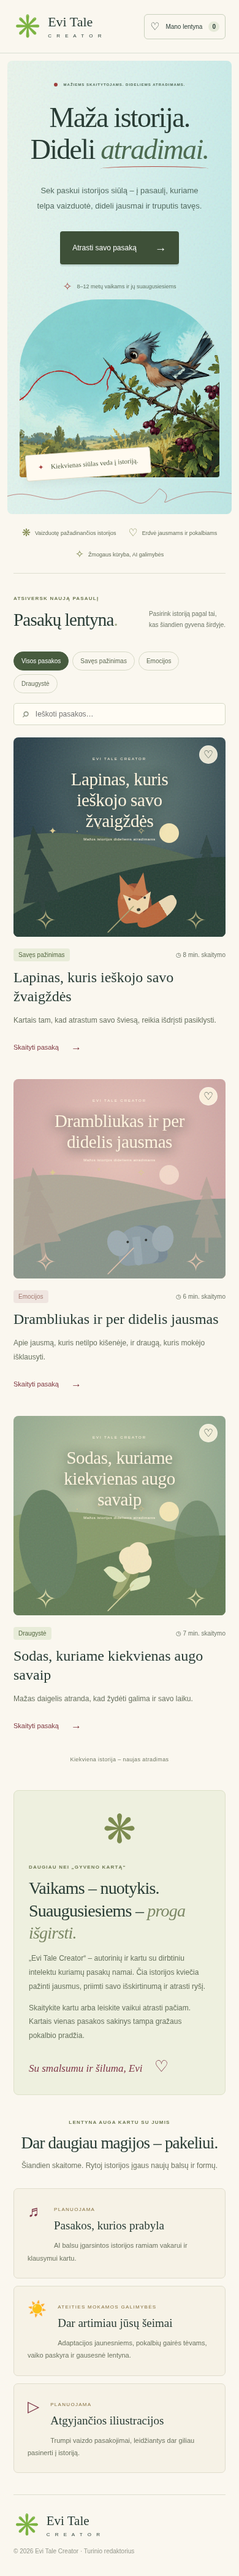
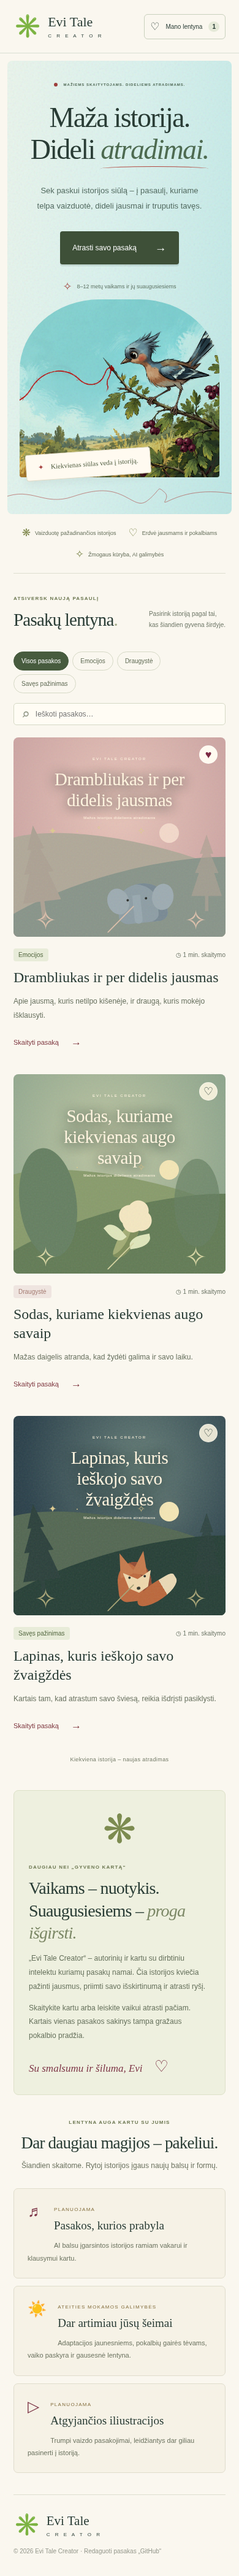
Publish static story library through GitHub Pages

Changed region(s): [[0.0308, 0.2808, 0.9538, 0.6552]]

diff --git a/src.js b/src.js
@@ -1,8 +1,10 @@
 import './style.css';
 
 import { escapeHtml as esc } from './shared.js';
+const editorMode=import.meta.env.MODE==='editor';
+const asset=path=>import.meta.env.BASE_URL+path.replace(/^\//,'');
 let stories = [];
-function cover(s) { return s.image ? `<img class="story-cover" src="${esc(s.image)}" alt="${esc(s.imageAlt || s.title)}" loading="lazy">` : art(s.color); }
+function cover(s) { return s.image ? `<img class="story-cover" src="${esc(editorMode?s.image:asset(s.image))}" alt="${esc(s.imageAlt || s.title)}" loading="lazy">` : art(s.color); }
 
 let remembered=[];
 try{const value=JSON.parse(localStorage.getItem('evi-saved')||'[]');if(Array.isArray(value))remembered=value.filter(v=>typeof v==='string');}catch{}
@@ -12,12 +14,12 @@ let filter='Visos pasakos',query='',favorites=false;
 function art(type, cls='') {return `<div class="art ${type} ${cls}" aria-hidden="true"><div class="moon"></div><div class="stars">✦ · ˚　 ✧<br>　 ·　 ✦　 ·</div><div class="hill back"></div><div class="hill front"></div><div class="tree t1"></div><div class="tree t2"></div><div class="animal"><i class="ear e1"></i><i class="ear e2"></i><i class="face"></i><i class="eye"></i><i class="nose"></i><i class="tail"></i></div><div class="sprigs">✧　╱　✧</div></div>`}
 document.querySelector('#app').innerHTML=`
 <header><a href="#" class="brand" aria-label="Evi Tale Creator pradžia"><span class="brand-icon">✳</span><span>Evi Tale<span class="brand-small">C R E A T O R</span></span></a><nav aria-label="Pagrindinis meniu"><a href="#lentyna" class="active">Pasakų lentyna</a><a href="#apie">Apie projektą</a><a href="#ateitis">Kas laukia toliau <span class="tiny-dot"></span></a></nav><button class="saved-nav" id="saved-nav">♡ <span>Mano lentyna</span><b id="saved-count">0</b></button></header>
-<main><section class="hero"><svg class="story-thread" viewBox="0 0 1200 120" fill="none" aria-hidden="true"><path d="M-20 70C130 10 195 118 350 65S575 35 640 70 720 116 770 69 803 10 840 41 812 111 860 89 1020 15 1220 52" stroke="currentColor" stroke-width="2"/></svg><div class="hero-copy"><div class="eyebrow"><span></span> MAŽIEMS SKAITYTOJAMS. DIDELIEMS ATRADIMAMS.</div><h1>Maža istorija.<br>Dideli <em>atradimai.</em></h1><p>Sek paskui istorijos siūlą – į pasaulį, kuriame<br>telpa vaizduotė, dideli jausmai ir truputis tavęs.</p><a class="primary" href="#lentyna">Atrasti savo pasaką <span aria-hidden="true">→</span></a><div class="hero-foot"><span>✧</span> 8–12 metų vaikams ir jų suaugusiesiems</div></div><div class="hero-visual"><img class="hero-illustration" src="/illustrations/red-thread-bird.png" alt="Melsvas paukštelis ant gudobelės šakos, prie kurios pririštas raudonas siūlas" width="1536" height="1024"><div class="floating-note"><span>✦</span> Kiekvienas siūlas veda į istoriją.</div><span class="orbit">✧</span></div></section>
+<main><section class="hero"><svg class="story-thread" viewBox="0 0 1200 120" fill="none" aria-hidden="true"><path d="M-20 70C130 10 195 118 350 65S575 35 640 70 720 116 770 69 803 10 840 41 812 111 860 89 1020 15 1220 52" stroke="currentColor" stroke-width="2"/></svg><div class="hero-copy"><div class="eyebrow"><span></span> MAŽIEMS SKAITYTOJAMS. DIDELIEMS ATRADIMAMS.</div><h1>Maža istorija.<br>Dideli <em>atradimai.</em></h1><p>Sek paskui istorijos siūlą – į pasaulį, kuriame<br>telpa vaizduotė, dideli jausmai ir truputis tavęs.</p><a class="primary" href="#lentyna">Atrasti savo pasaką <span aria-hidden="true">→</span></a><div class="hero-foot"><span>✧</span> 8–12 metų vaikams ir jų suaugusiesiems</div></div><div class="hero-visual"><img class="hero-illustration" src="${asset('illustrations/red-thread-bird.png')}" alt="Melsvas paukštelis ant gudobelės šakos, prie kurios pririštas raudonas siūlas" width="1536" height="1024"><div class="floating-note"><span>✦</span> Kiekvienas siūlas veda į istoriją.</div><span class="orbit">✧</span></div></section>
 <div class="values"><span>❋ <b>Vaizduotę pažadinančios istorijos</b></span><span>♡ <b>Erdvė jausmams ir pokalbiams</b></span><span>✧ <b>Žmogaus kūryba, AI galimybės</b></span></div>
 <section class="library" id="lentyna"><div class="section-heading"><div><div class="eyebrow">ATSIVERSK NAUJĄ PASAULĮ</div><h2>Pasakų lentyna<span>.</span></h2></div><p>Pasirink istoriją pagal tai,<br>kas šiandien gyvena širdyje.</p></div><div class="controls"><div class="filters" role="group" aria-label="Pasakų temos">${['Visos pasakos','Emocijos','Draugystė','Savęs pažinimas'].map((x,i)=>`<button class="filter ${i===0?'selected':''}" data-filter="${x}">${x}</button>`).join('')}</div><label class="search"><span>⌕</span><input id="search" type="search" placeholder="Ieškoti pasakos…" aria-label="Ieškoti pasakos"></label></div><div class="shelf-state" id="shelf-state"></div><div class="cards" id="cards"></div><p class="sample-note">Kiekviena istorija – naujas atradimas</p></section>
 <section class="about" id="apie"><div class="about-symbol">❋<span>maža istorija.<br>didelis pasaulis.</span></div><div><div class="eyebrow">DAUGIAU NEI „GYVENO KARTĄ“</div><h2>Vaikams – nuotykis.<br>Suaugusiesiems – <em>proga išgirsti.</em></h2><p>„Evi Tale Creator“ – autorinių ir kartu su dirbtiniu intelektu kuriamų pasakų namai. Čia istorijos kviečia pažinti jausmus, priimti savo išskirtinumą ir atrasti ryšį.</p><p>Skaitykite kartu arba leiskite vaikui atrasti pačiam. Kartais vienas pasakos sakinys tampa gražaus pokalbio pradžia.</p><span class="signature">Su smalsumu ir šiluma, Evi <span>♡</span></span></div></section>
 <section class="future" id="ateitis"><div><div class="eyebrow">LENTYNA AUGA KARTU SU JUMIS</div><h2>Dar daugiau magijos – pakeliui.</h2><p>Šiandien skaitome. Rytoj istorijos įgaus naujų balsų ir formų.</p></div><div class="future-grid"><article><span>♬</span><small>PLANUOJAMA</small><h3>Pasakos, kurios prabyla</h3><p>AI balsu įgarsintos istorijos ramiam vakarui ir klausymui kartu.</p></article><article><span>☀</span><small>ATEITIES MOKAMOS GALIMYBĖS</small><h3>Dar artimiau jūsų šeimai</h3><p>Adaptacijos jaunesniems, pokalbių gairės tėvams, vaiko paskyra ir gausesnė lentyna.</p></article><article><span>▷</span><small>PLANUOJAMA</small><h3>Atgyjančios iliustracijos</h3><p>Trumpi vaizdo pasakojimai, leidžiantys dar giliau pasinerti į istoriją.</p></article></div></section>
-</main><footer><a class="brand" href="#"><span class="brand-icon">✳</span><span>Evi Tale<span class="brand-small">C R E A T O R</span></span></a><p>Istorijos, kurios augina. Kartu.</p><span>© ${new Date().getFullYear()} Evi Tale Creator · <a href="/admin/">Turinio redaktorius</a></span></footer><dialog id="reader"><div id="reader-content"></div></dialog>`;
+</main><footer><a class="brand" href="#"><span class="brand-icon">✳</span><span>Evi Tale<span class="brand-small">C R E A T O R</span></span></a><p>Istorijos, kurios augina. Kartu.</p><span>© ${new Date().getFullYear()} Evi Tale Creator · <a href="${editorMode?'/admin/':'https://github.com/EviTaleCreator/EviTaleApp/tree/main/content/stories'}">${editorMode?'Turinio redaktorius':'Redaguoti pasakas „GitHub“'}</a></span></footer><dialog id="reader"><div id="reader-content"></div></dialog>`;
 
 function render(){
  const list=stories.filter(s=>(filter==='Visos pasakos'||s.topic===filter)&&(!favorites||saved.has(s.id))&&(s.title+' '+s.topic).toLocaleLowerCase('lt').includes(query.toLocaleLowerCase('lt')));
@@ -39,7 +41,7 @@ const dialog=document.querySelector('#reader');dialog.addEventListener('click',e
 function openStory(id){const s=stories.find(s=>s.id===id);document.querySelector('#reader-content').innerHTML=`<button class="close" id="close-reader" aria-label="Uždaryti pasaką">×</button><div class="reader-heading">${cover(s)}<span class="eyebrow">${esc(s.topic)} · 8–12 metų · ${s.time} min.</span><h2>${esc(s.title)}</h2><p class="demo-label">${s.sample ? 'Pavyzdinė pasaka · Evi Tale Creator prototipas' : 'Evi Tale Creator · Pasaka jūsų šeimai'}</p></div><div class="story-text">${s.body.map(p=>`<p>${esc(p)}</p>`).join('')}<div class="story-end">✧</div><details><summary>Suaugusiesiems: tarp pasakos eilučių</summary><p>${esc(s.note)}</p><p>Galite paklausti: „Kuri istorijos vieta tau įsiminė?“ Atsakymo skubinti nereikia.</p></details><p class="audio-note">♬ Įgarsinimas planuojamas. Šiuo metu pasaką galima skaityti.</p></div>`;dialog.showModal();dialog.scrollTop=0;}
 async function loadStories() {
  try {
-  const response=await fetch('/api/stories');
+  const response=await fetch(editorMode?'/api/stories':asset('stories.json'));
   if(!response.ok) throw new Error('Nepavyko įkelti pasakų');
   stories=await response.json(); render();
   const topics=['Visos pasakos',...new Set(stories.map(s=>s.topic))];

diff --git a/vite.config.js b/vite.config.js
@@ -1,6 +1,7 @@
 import { defineConfig } from 'vite';
 import { resolve } from 'node:path';
-export default defineConfig({
+export default defineConfig(({mode})=>({
+ base:mode==='editor'?'/':process.env.PAGES_BASE_PATH||'/EviTaleApp/',
  server: {proxy: {'/api': 'http://127.0.0.1:3001', '/uploads': 'http://127.0.0.1:3001'}},
- build: {rollupOptions: {input: {main: resolve('index.html'), admin: resolve('admin/index.html')}}}
-});
+ build: {rollupOptions: {input: mode==='editor'?{main:resolve('index.html'),admin:resolve('admin/index.html')}:{main:resolve('index.html')}}}
+}));

diff --git a/README.md b/README.md
@@ -1,53 +1,82 @@
-# Evi Tale Creator
+# Evi Tale Creator · GitHub Pages
 
-Lietuviška pasakų lentyna ir slaptažodžiu apsaugotas turinio redaktorius. Vieša svetainė rodo tik paskelbtas pasakas; juodraščiai prieinami tik prisijungus. Turinys išsaugomas serveryje, o ne naršyklėje ar automatiškai GitHub saugykloje.
+Pasakų svetainė veikia tik su GitHub Pages: nereikia atskiro serverio, duomenų bazės, slaptažodžių ar mokamo hostingo. GitHub Actions surenka statinius failus ir paskelbia juos po kiekvieno pakeitimo `main` šakoje.
 
-## Paleidimas savo kompiuteryje
+**Svetainė:** https://evitalecreator.github.io/EviTaleApp/
 
-Reikia Node.js 22 arba 24.
+## Pirmą kartą įjungti publikavimą
 
-1. `npm ci`
-2. Nukopijuokite `.env.example` į `.env`. Savo kompiuterio teksto redaktoriumi įrašykite unikalų `ADMIN_PASSWORD` (bent 12 simbolių). `.env` yra ignoruojamas Git. Slaptažodžio nekelkite į GitHub ir nesiųskite pokalbyje.
-3. `npm run dev -- --port 5173`
-4. Vietinėje naršyklėje atidarykite svetainę per 5173 prievadą; redaktorius yra `/admin/`. Prisijunkite nustatytu slaptažodžiu.
+1. Saugykloje atidarykite **Settings → Pages**: https://github.com/EviTaleCreator/EviTaleApp/settings/pages
+2. Skiltyje **Build and deployment → Source** pasirinkite **GitHub Actions**.
+3. Atidarykite **Actions → Publish GitHub Pages → Run workflow → Run workflow**: https://github.com/EviTaleCreator/EviTaleApp/actions/workflows/pages.yml
+4. Palaukite, kol `build` ir `deploy` užduotys bus žalios. Atidarykite aukščiau nurodytą svetainės adresą. Pirmas publikavimas gali užtrukti kelias minutes.
 
-Jei slaptažodis nenustatytas, vieša lentyna veikia, bet prisijungimas į redaktorių lieka užrakintas. Slaptažodžio pakeitimui ir naujam `.env` pritaikyti paleiskite serverį iš naujo. Sesijos galioja iki 8 valandų ir nutraukiamos perkrovus serverį.
+Vėliau užtenka įrašyti pakeitimus į `main`: publikavimas prasidės automatiškai. Atskiras Vercel ar kitas hostingas nereikalingas. Jei saugykla privati ir Pages nustatymuose prašoma pakeisti planą, privačiai saugyklai reikia tinkamo GitHub plano; saugyklos matomumo automatiškai nekeiskite. GitHub Pages svetainė paprastai viešai prieinama.
 
-## Kaip naudotis redaktoriumi
+## Pakeisti pasakos tekstą be programavimo
 
-- Svetainės apačioje rinkitės **Turinio redaktorius** arba atidarykite `/admin/`.
-- Rinkitės esamą pasaką arba **Nauja pasaka**.
-- Įrašykite pavadinimą, temą, aprašymą, tekstą ir, jei norite, pastabas suaugusiesiems. Pastraipas atskirkite tuščia eilute; skaitymo trukmė apskaičiuojama automatiškai.
-- Įkelkite PNG, JPG arba WebP iki 8 MB ir pridėkite vaizdo aprašymą. SVG nepriimamas.
-- **Peržiūrėti** parodo dar neišsaugotą tekstą. **Išsaugoti pakeitimus** išsaugo serveryje.
-- **Juodraštis** slepiamas nuo lankytojų. **Paskelbta** parodo pasaką viešoje lentynoje po išsaugojimo. Norint paslėpti pasaką, grąžinkite į juodraštį ir išsaugokite.
-- **Atsisiųsti turinio kopiją** eksportuoja tekstus JSON formatu. Ši kopija neapima iliustracijų; visai atsarginei kopijai saugokite visą duomenų katalogą.
-- Trinant prašoma patvirtinimo. Redaktorius įspėja apie neišsaugotus pakeitimus ir atmeta konfliktuojančius pakeitimus iš kito lango.
+1. Atidarykite [content/stories](https://github.com/EviTaleCreator/EviTaleApp/tree/main/content/stories).
+2. Pasirinkite pasakos `.md` failą ir spauskite pieštuką **Edit** (kai kuriuose vaizduose pirmiausia pasirinkite **Code**).
+3. Pakeiskite pavadinimą, aprašymą arba tekstą. Pastraipas atskirkite tuščia eilute.
+4. Paspauskite **Commit changes**, pasirinkite įrašymą į `main` ir patvirtinkite.
+5. Actions lange palaukite žalio **Publish GitHub Pages** rezultato, tada atnaujinkite svetainę.
 
-## Viešas hostingas
+Kiekvienos pasakos pradžioje tarp `---` eilučių yra paprasti laukai:
 
-Tai Node.js programa, ne vien statiniai failai. Vien GitHub Pages ar statinio Vercel diegimo šiam redaktoriui nepakanka. Reikia Node.js hostingo su **išliekančiu disku** ir HTTPS, pavyzdžiui, tinkamai sukonfigūruoto Render/Railway serverio ar VPS.
+| Laukas | Reikšmė |
+| --- | --- |
+| `id` | Unikalus vardas: mažosios lotyniškos raidės, skaitmenys ir brūkšneliai. Esamos pasakos id nekeiskite, kad išliktų lankytojų žymelės. |
+| `title` | Pavadinimas. |
+| `topic` | Tema. Nauja tema automatiškai atsiras filtruose. |
+| `desc` | Trumpas vienos eilutės aprašymas lentynoje. |
+| `status` | `published` – rodyti svetainėje; `draft` – neįtraukti teksto į svetainės failus. |
+| `color` | Atsarginis viršelis: `night`, `pink` arba `garden`. |
+| `sample` | `true` – pavyzdinis tekstas; savo pasakoms naudokite `false`. |
+| `image` | Pvz. `illustrations/mano-pasaka.png`; galima palikti tuščią. |
+| `imageAlt` | Trumpas iliustracijos aprašymas nematantiems skaitytojams. |
 
-- Diegimo komanda: `npm ci && npm run build`.
-- Paleidimo komanda: `npm start`.
-- Hostingo saugiuose aplinkos nustatymuose pridėkite `ADMIN_PASSWORD`.
-- `DATA_DIR` turi nurodyti išliekančiame diske esantį katalogą, pvz. `/data/evitale`. Prijunkite diską prieš pirmą naudojimą. Duomenys negali būti laikomi vien laikinoje aplikacijos failų sistemoje.
-- `PORT` pateikia hostingas (numatyta 3001). Naudokite HTTPS ir vieną serverio egzempliorių; failinė saugykla neskirta keliems serveriams ar bendradarbiavimui realiu laiku.
-- Įjungus išorinį reverse proxy, jis turi išsaugoti pradinį `Host` ir perduoti `X-Forwarded-Proto: https`, kad sesijos slapukas būtų pažymėtas `Secure`.
+Kiekvieną lauką rašykite vienoje eilutėje, po dvitaškio. Išorinių kabučių nereikia. Po antros `---` eilutės rašykite pasaką. Pasirenkamas skyrius `## Suaugusiesiems` su papildomomis mintimis rodomas pasakos pabaigoje. Skaitymo trukmė apskaičiuojama automatiškai.
 
-Pirmą kartą serveris nukopijuoja `content/stories.json` į `DATA_DIR/stories.json`. Vėliau redaktorius rašo tik į duomenų katalogą, o atnaujinant programos kodą esamas turinys neperrašomas. Iliustracijos saugomos `DATA_DIR/uploads/`. Reguliariai kopijuokite visą `DATA_DIR` į saugią atsarginių kopijų vietą. Ištrintų ar pakeistų iliustracijų failai automatiškai netrinami, kad nebūtų prarastas dar naudojamas turinys; viešai tiekiami tik paskelbtų pasakų naudojami failai.
+## Pridėti naują pasaką
 
-## Patikros ir struktūra
+1. Atidarykite [pasakos šabloną](content/PASAKOS-SABLONAS.txt) ir nukopijuokite dalį nuo pirmos `---` eilutės.
+2. `content/stories` kataloge rinkitės **Add file → Create new file**.
+3. Failą pavadinkite, pvz. `paukstelio-siulas.md`, įklijuokite šabloną ir užpildykite.
+4. Pasirinkite naują unikalų `id`, pvz. `paukstelio-siulas`. Kol ruošiate tekstą, palikite `status: draft`.
+5. Kai norėsite paskelbti, pakeiskite į `status: published` ir įrašykite pakeitimus.
+
+Juodraščių tekstai nepatenka į svetainės paketą, tačiau lieka GitHub saugykloje ir jos istorijoje. Jei saugykla vieša, juodraščiai ten irgi vieši. Į `public/` įkelti paveikslėliai visada vieši, net jeigu pasaka yra juodraštis. Privačių duomenų saugykloje nelaikykite.
+
+## Įkelti iliustraciją
+
+1. Atidarykite [public/illustrations](https://github.com/EviTaleCreator/EviTaleApp/tree/main/public/illustrations).
+2. Rinkitės **Add file → Upload files**, įkelkite PNG, JPG arba WebP ir įrašykite pakeitimus.
+3. Naudokite trumpą failo vardą be tarpų ir lietuviškų raidžių, pvz. `paukstelio-siulas.webp`. Rekomenduojama iki 2 MB, kad puslapis greitai atsivertų telefone.
+4. Pasakos faile įrašykite `image: illustrations/paukstelio-siulas.webp` ir užpildykite `imageAlt`.
+
+Netaisyklingus laukus, pasikartojančius id ir nerastas iliustracijas tikrina surinkimas. Jei užduotis raudona, paskutinė sėkmingai paskelbta svetainė lieka veikti; klaidą pamatysite Actions užduoties žurnale.
+
+## Vietinis kūrimas (nebūtina publikavimui)
+
+Reikia Node.js 22 arba 24:
 
 ```sh
-npm run build
-npm test
+npm ci
+npm run dev
 ```
 
-- `server.mjs`: prisijungimas, sesijos, turinio API, vaizdų įkėlimas ir produkcinio puslapio pateikimas.
-- `admin/`: turinio redaktorius; `content/stories.json`: tik pradinės pasakos.
-- `src.js`, `style.css`: viešoji svetainė; `shared.js`: tekstų HTML ekranavimas.
-- `tests/server.test.mjs`: realaus serverio integracijos patikros su laikina saugykla.
-- `docs/`: svetainės ir redaktoriaus ekrano nuotraukos.
+Vietinė svetainė yra `/EviTaleApp/` kelyje, numatytasis prievadas 5173. Po pasakų `.md` pakeitimų paleiskite `npm run dev` iš naujo, kad būtų perkurti duomenys.
 
-Dabartiniai tekstai yra pavyzdiniai. Pagrindinio ekrano iliustracija sugeneruota AI; pasakų viršeliuose, kol neįkeltas vaizdas, naudojami CSS piešiniai. Mėgstamos pasakos saugomos lankytojo naršyklėje. Įgarsinimas, mokėjimai ir vaiko paskyros dar neįgyvendinti. Prieš viešą publikavimą peržiūrėkite tekstus ir naudojamų iliustracijų teises.
+```sh
+npm test
+npm run build
+npm run preview -- --port 4173
+```
+
+`dist/` turi tik viešą svetainę, paskelbtas pasakas ir iliustracijas. Tai visas Pages publikavimui reikalingas turinys. Bazinis kelias yra `/EviTaleApp/`; pakeitus saugyklos pavadinimą, atnaujinkite `vite.config.js` arba nustatykite `PAGES_BASE_PATH` surinkimo aplinkoje.
+
+## Ankstesnis serverinis redaktorius
+
+`admin/`, `server.mjs`, `dev.mjs`, `content/stories.json` ir `tests/server.test.mjs` išsaugoti ateičiai. Jie **neįtraukiami į GitHub Pages svetainę**, administratoriaus slaptažodžio Pages versijai nereikia. Serverinio varianto komandos: `npm run dev:editor`, `npm run build:editor`, `npm run start:editor`. Jam vis tiek reikia Node.js serverio, `ADMIN_PASSWORD` ir išliekančio disko. Jo `.data/` turinys automatiškai nepersikelia į Pages; dabartinės pasakos pateiktos `content/stories/*.md` failuose.
+
+Įgarsinimas, mokėjimai ir vaiko paskyros kol kas neįgyvendinti. Mėgstamos pasakos saugomos lankytojo naršyklėje.

diff --git a/content/stories/zvaigzde.md b/content/stories/zvaigzde.md
@@ -1,0 +1,27 @@
+---
+id: zvaigzde
+title: Lapinas, kuris ieškojo savo žvaigždės
+topic: Savęs pažinimas
+status: published
+color: night
+sample: true
+image:
+imageAlt:
+desc: Kartais tam, kad atrastum savo šviesą, reikia išdrįsti pasiklysti.
+---
+
+Kiekvieną vakarą mažasis lapinas skaičiuodavo žvaigždes. Viena jam atrodė šiltesnė už visas kitas. „Ji tikriausiai mano“, – pagalvodavo jis ir užmigdavo, susirietęs po sena pušimi.
+
+Tačiau vieną vakarą dangų užklojo debesys. Lapinas ilgai laukė, kol jie prasiskirs, o paskui susikrovė į kišenę tris giles ir išėjo ieškoti savo žvaigždės.
+
+Prie upelio jis sutiko pelėdą. „Jeigu nežinau, kur eiti, gal aš nieko nemoku?“ – paklausė lapinas. Pelėda palaukė, kol nutils vandens pliuškenimas. „Nežinoti kelio ir nemokėti keliauti – visai skirtingi dalykai.“
+
+Lapinas keliavo visą naktį. Jis padėjo ežiukui ištraukti leteną iš šaknų, pasidalijo gile su pele ir atsisėdo šalia liūdinčio barsuko. Kiekvieną kartą krūtinėje pasidarydavo truputį šilčiau.
+
+Auštant jis priėjo ežerą. Vandens paviršiuje atsispindėjo mažas, pavargęs lapinas. Žvaigždės ten nebuvo. Bet jo akys švietė.
+
+„Gal man nebūtina turėti žvaigždę, kad galėčiau kam nors pašviesti“, – pagalvojo jis. Ir pasuko namo. Šį kartą kelias jau neatrodė toks tamsus.
+
+## Suaugusiesiems
+
+Pasaka kviečia pastebėti, kad mūsų vertė nepriklauso nuo vieno pasiekimo ar kitų pripažinimo. Palikite vaikui erdvės savai interpretacijai: ką jam reiškia lapino žvaigždė?

diff --git a/content/stories/sodas.md b/content/stories/sodas.md
@@ -1,0 +1,27 @@
+---
+id: sodas
+title: Sodas, kuriame kiekvienas augo savaip
+topic: Draugystė
+status: published
+color: garden
+sample: true
+image:
+imageAlt:
+desc: Mažas daigelis atranda, kad žydėti galima ir savo laiku.
+---
+
+Seno sodo pakraštyje augo mažas daigelis. Aplink jį tulpės jau skleidė žiedus, o žirnis kas rytą užlipdavo dar vienu laipteliu aukščiau.
+
+Daigelis matavo save nukritusiu lapu. Vakar buvo tokio pat dydžio. Šiandien – irgi. „Turbūt augu neteisingai“, – pagalvojo jis.
+
+Sodininkė atsisėdo šalia. „Ką šiandien pastebėjai?“ – paklausė. Daigelis parodė į aukštąjį žirnį. „Jis jau pasiekė tvorą.“
+
+„O tu?“ Daigelis nuleido akis į žemę ir pajuto naują šaknelę. Mažą, bet stiprią. Jos niekas nematė. Net jis pats iki šiol nepastebėjo.
+
+Dienos ėjo. Daigelis gėrė lietų, ilsėjosi saulėje ir kartais vis dar žvalgėsi į kaimynus. Bet vis dažniau prisimindavo savo šaknis.
+
+Vasaros pabaigoje jis pražydo mažais baltais žiedais. Naktį jie kvepėjo taip, kad į sodą atskrisdavo drugiai. Tulpės jau ilsėjosi. Dabar buvo jo laikas.
+
+## Suaugusiesiems
+
+Vaikai auga nevienodu tempu. Ši istorija leidžia švelniai paliesti lyginimosi su kitais temą, nepadarant žydėjimo privalomu atlygiu už kantrybę.

diff --git a/content/stories/dramblys.md b/content/stories/dramblys.md
@@ -1,0 +1,27 @@
+---
+id: dramblys
+title: Drambliukas ir per didelis jausmas
+topic: Emocijos
+status: published
+color: pink
+sample: true
+image:
+imageAlt:
+desc: Apie jausmą, kuris netilpo kišenėje, ir draugą, kuris mokėjo išklausyti.
+---
+
+Tą rytą drambliukas pabudo su keistu gumulu pilve. Jis buvo sunkesnis už akmenį ir didesnis už pusryčių dubenėlį.
+
+„Nėra ko pykti“, – pasakė praskrendantis paukštis. Tačiau gumulas tik paaugo. Drambliukas bandė jį paslėpti po skarele, bet šis niekur nedingo.
+
+Prie tvenkinio sėdėjo vėžlys. „Gali pasėdėti čia“, – tarė jis. Neklausė, kodėl drambliukas paniuręs. Neskubino šypsotis.
+
+Kurį laiką abu klausėsi nendrių. Tada drambliukas pasakė: „Mano draugas šiandien išėjo žaisti be manęs. Man liūdna. Ir pikta.“
+
+Vėžlys linktelėjo. „Gali ir liūdėti, ir pykti. Abu jausmai čia telpa.“ Gumulas pilve tapo minkštesnis.
+
+Grįždamas drambliukas dar truputį liūdėjo. Bet dabar žinojo: jausmo nebūtina išvaryti. Kartais užtenka jam surasti vardą ir vietą šalia draugo.
+
+## Suaugusiesiems
+
+Jausmų įvardijimas ir ramus buvimas šalia gali padėti vaikui. Pasaka nesiūlo vieno teisingo būdo nusiraminti ir nėra individualios psichologinės pagalbos pakaitalas.
